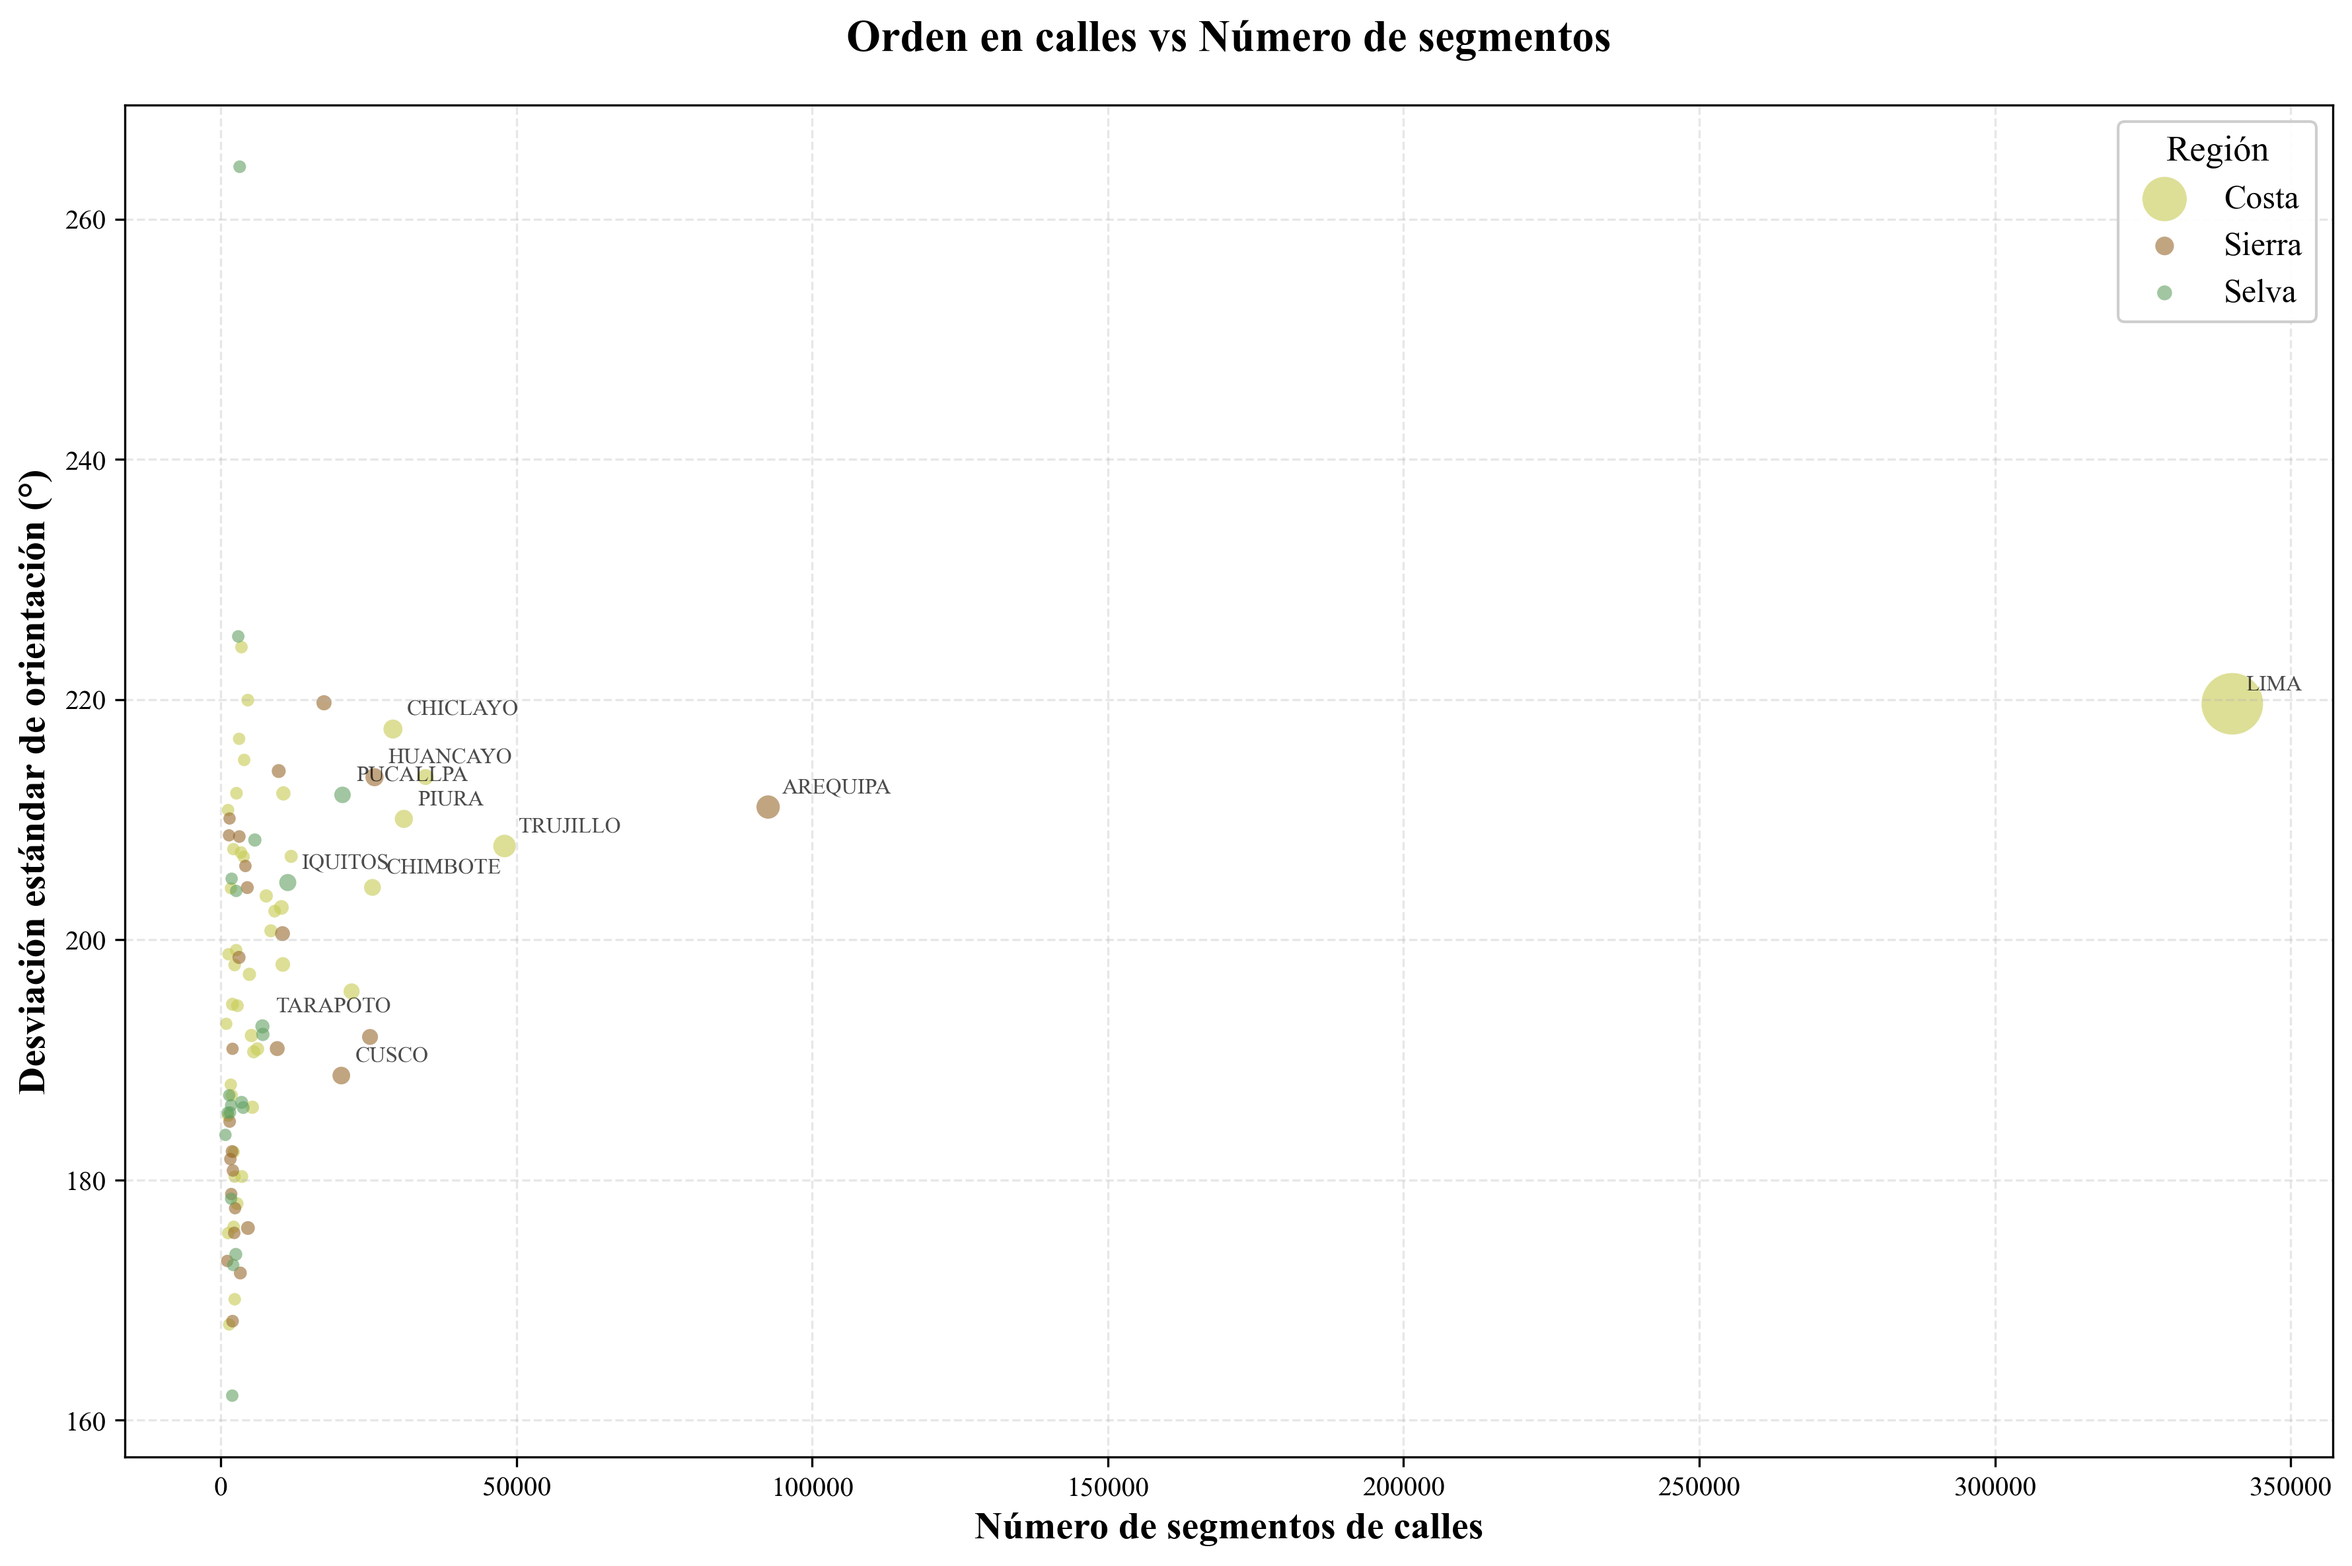
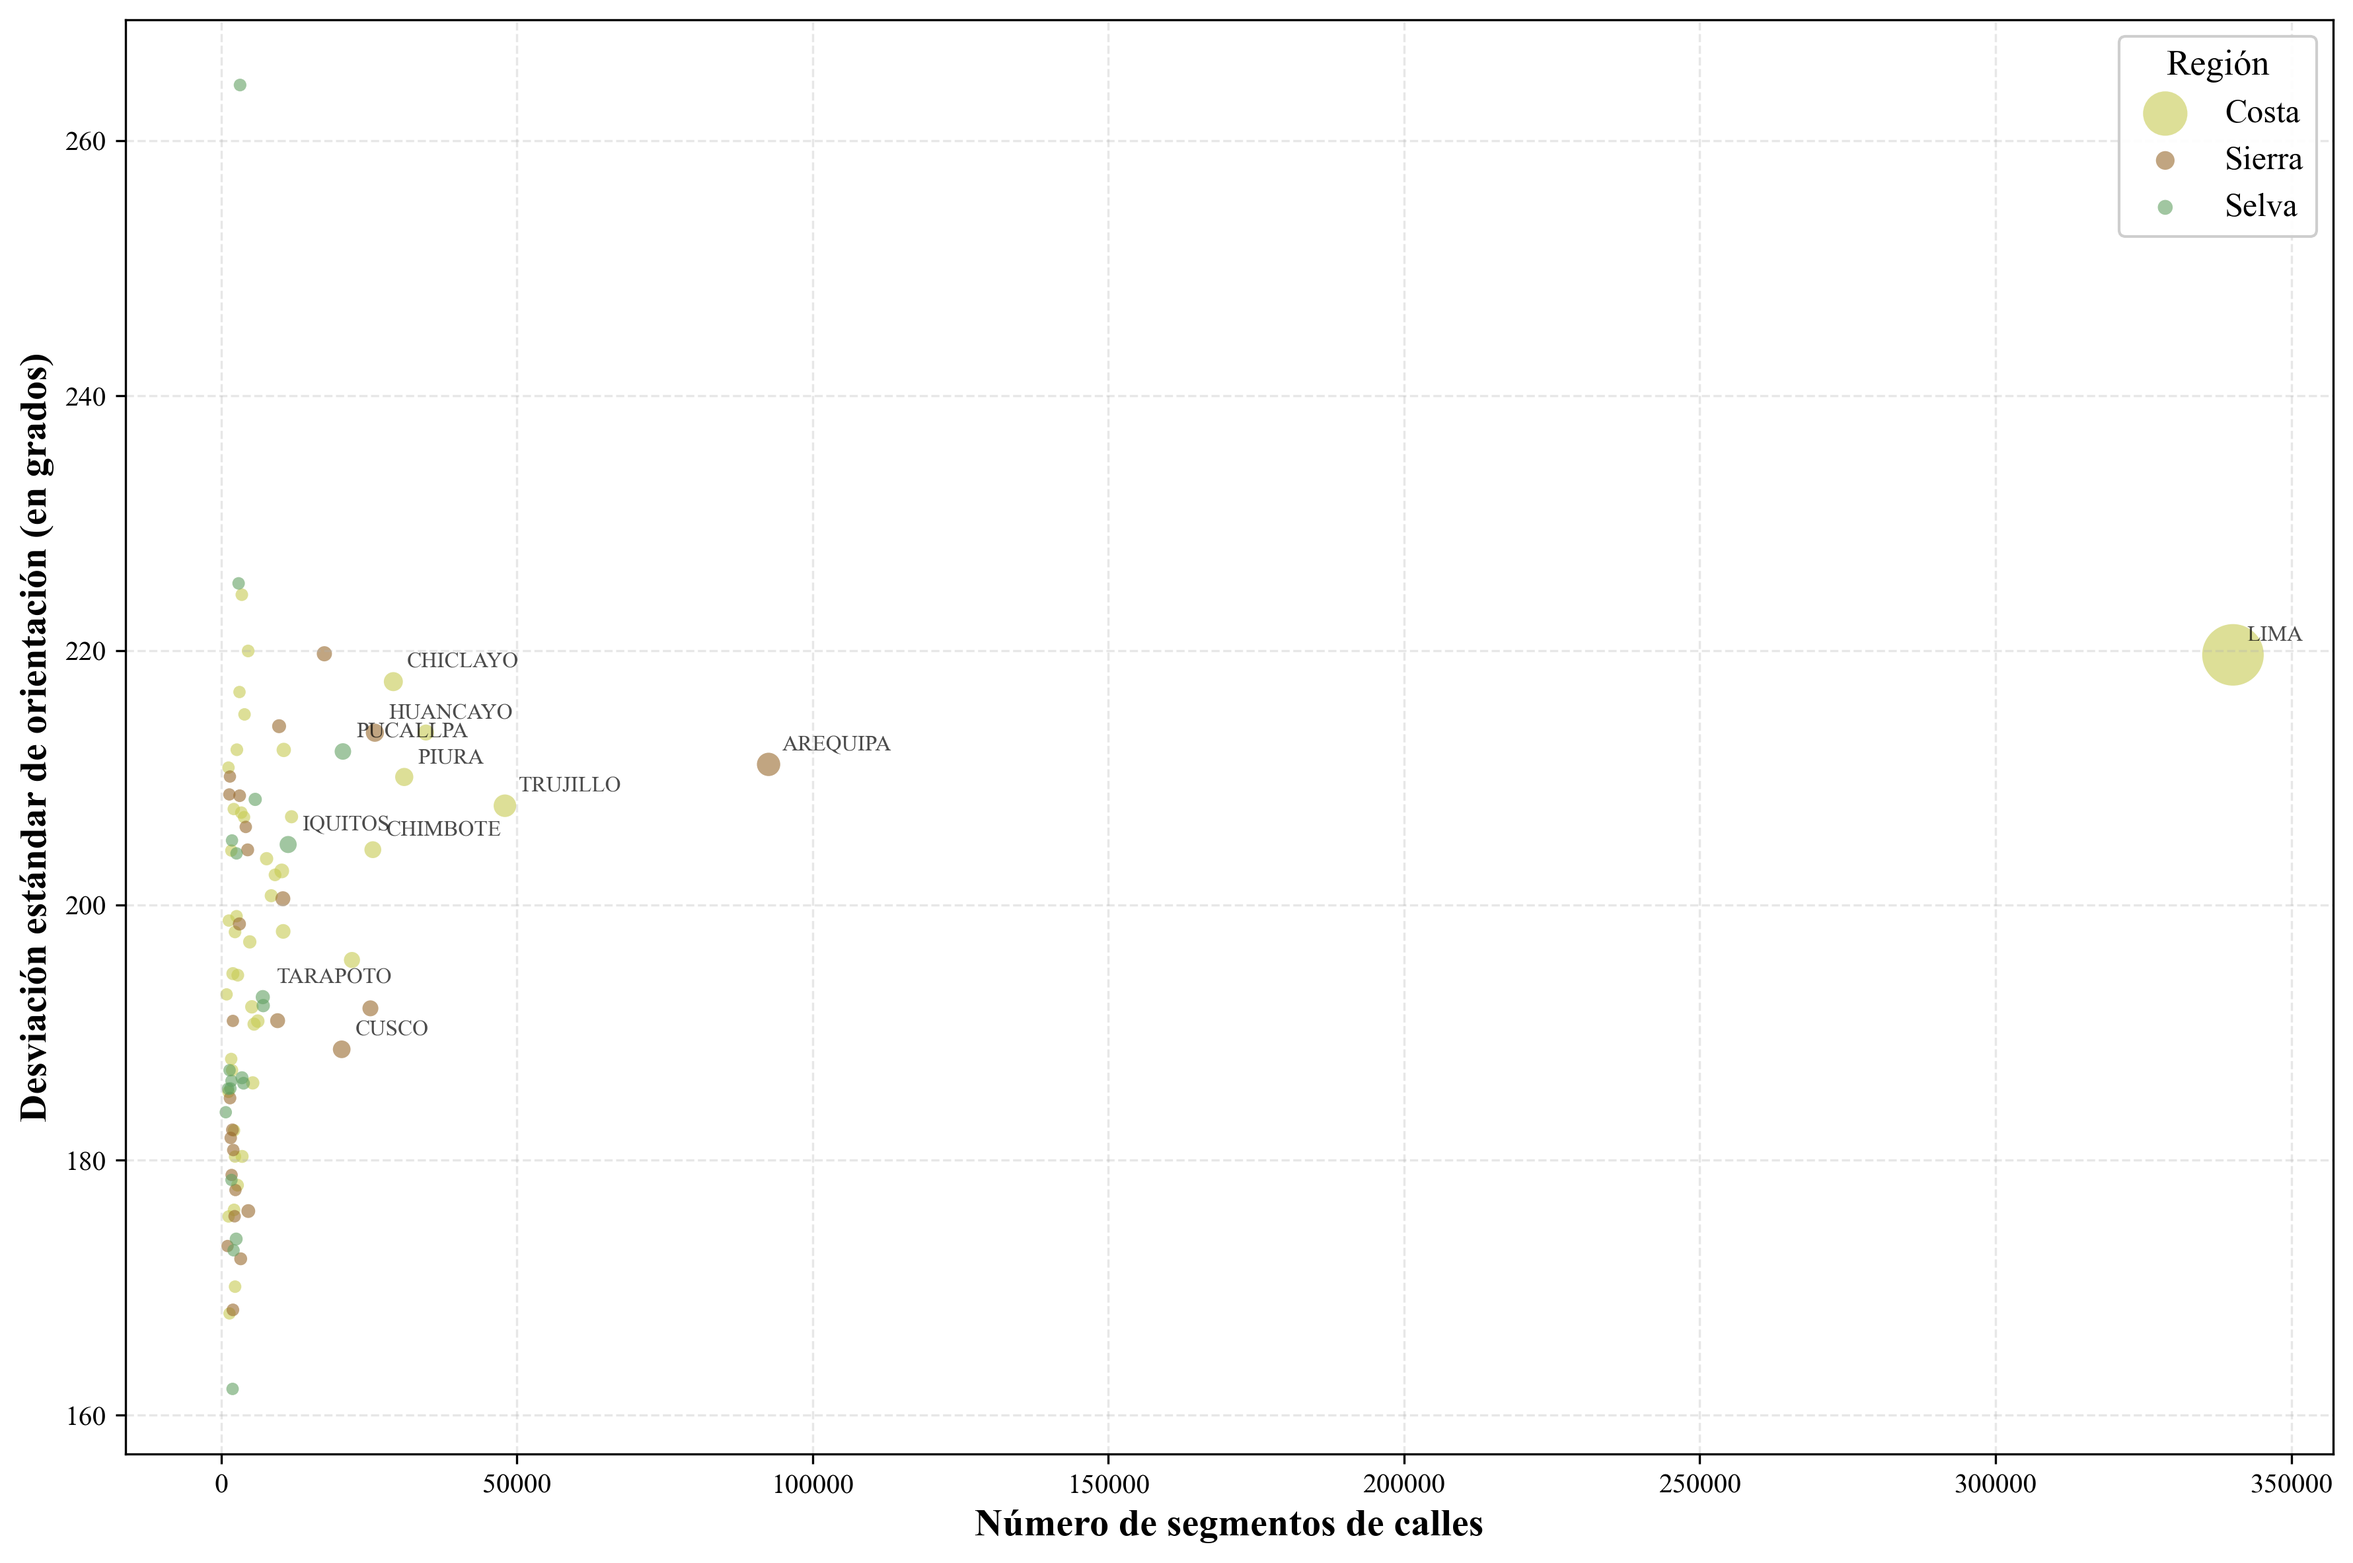
modifico gráfico de dispersion

diff --git a/scripts/dataprep_web_data.py b/scripts/dataprep_web_data.py
@@ -10,7 +10,7 @@ from shapely.geometry import box, LineString
 import warnings
 warnings.filterwarnings('ignore')
 
-# Configurar matplotlib para usar fuente LaTeX
+# Configurar matplotlib para usar fuente STIX Two Text (la misma del HTML)
 plt.rcParams['font.family'] = 'serif'
 plt.rcParams['font.serif'] = ['STIX Two Text', 'Times New Roman', 'DejaVu Serif']
 plt.rcParams['text.usetex'] = False  # Usar fuentes del sistema en lugar de LaTeX
@@ -299,8 +299,7 @@ def create_scatter_plots(all_city_data, exclude_lima=False):
                       label=region)
         
         ax.set_xlabel('Número de segmentos de calles', fontsize=14, fontweight='bold')
-        ax.set_ylabel('Desviación estándar de orientación (°)', fontsize=14, fontweight='bold')
-        ax.set_title('Orden en calles vs Número de segmentos (sin Lima)', fontsize=16, fontweight='bold', pad=20)
+        ax.set_ylabel('Desviación estándar de orientación (en grados)', fontsize=14, fontweight='bold')
         ax.grid(True, alpha=0.3, linestyle='--')
         ax.legend(fontsize=12, title='Región', title_fontsize=13, framealpha=0.95)
         
@@ -317,6 +316,34 @@ def create_scatter_plots(all_city_data, exclude_lima=False):
         plt.close()
         print(f"  ✓ Gráfico guardado: dispersion_3.png")
         
+        # DISPERSION_4.PNG: Área vs Desviación Estándar sin Lima Metropolitana
+        fig, ax = plt.subplots(figsize=(12, 8), dpi=100)
+        
+        for region in ['Costa', 'Sierra', 'Selva']:
+            subset = cities_df[cities_df['region'] == region]
+            ax.scatter(subset['area_km2'], subset['bearing_std'], 
+                      s=subset['marker_size'], alpha=0.6, 
+                      color=color_map[region], edgecolors='none',
+                      label=region)
+        
+        ax.set_xlabel('Área urbana (km²)', fontsize=14, fontweight='bold')
+        ax.set_ylabel('Desviación estándar de orientación (en grados)', fontsize=14, fontweight='bold')
+        ax.grid(True, alpha=0.3, linestyle='--')
+        ax.legend(fontsize=12, title='Región', title_fontsize=13, framealpha=0.95)
+        
+        # Anotar ciudades seleccionadas (top 5 Costa, top 3 Sierra, top 3 Selva)
+        for _, row in cities_df.iterrows():
+            if row['nombre'] in cities_to_label:
+                ax.annotate(row['nombre'].split()[0], 
+                           (row['area_km2'], row['bearing_std']),
+                           fontsize=8, alpha=0.7, xytext=(5, 5), 
+                           textcoords='offset points')
+        
+        plt.tight_layout()
+        plt.savefig(OUTPUT_DIR / 'graficos' / 'dispersion_4.png', dpi=300, bbox_inches='tight')
+        plt.close()
+        print(f"  ✓ Gráfico guardado: dispersion_4.png")
+        
     else:
         # GRÁFICO 1: Segmentos vs Desviación Estándar (tamaño estándar)
         fig, ax = plt.subplots(figsize=(12, 8), dpi=100)
@@ -329,8 +356,7 @@ def create_scatter_plots(all_city_data, exclude_lima=False):
                       label=region)
         
         ax.set_xlabel('Número de segmentos de calles', fontsize=14, fontweight='bold')
-        ax.set_ylabel('Desviación estándar de orientación (°)', fontsize=14, fontweight='bold')
-        ax.set_title('Orden en calles vs Número de segmentos', fontsize=16, fontweight='bold', pad=20)
+        ax.set_ylabel('Desviación estándar de orientación (en grados)', fontsize=14, fontweight='bold')
         ax.grid(True, alpha=0.3, linestyle='--')
         ax.legend(fontsize=12, title='Región', title_fontsize=13, framealpha=0.95)
         
@@ -358,8 +384,7 @@ def create_scatter_plots(all_city_data, exclude_lima=False):
                       label=region)
         
         ax.set_xlabel('Área urbana (km²)', fontsize=14, fontweight='bold')
-        ax.set_ylabel('Desviación estándar de orientación (°)', fontsize=14, fontweight='bold')
-        ax.set_title('Orden en calles vs Área urbana', fontsize=16, fontweight='bold', pad=20)
+        ax.set_ylabel('Desviación estándar de orientación (en grados)', fontsize=14, fontweight='bold')
         ax.grid(True, alpha=0.3, linestyle='--')
         ax.legend(fontsize=12, title='Región', title_fontsize=13, framealpha=0.95)
         
